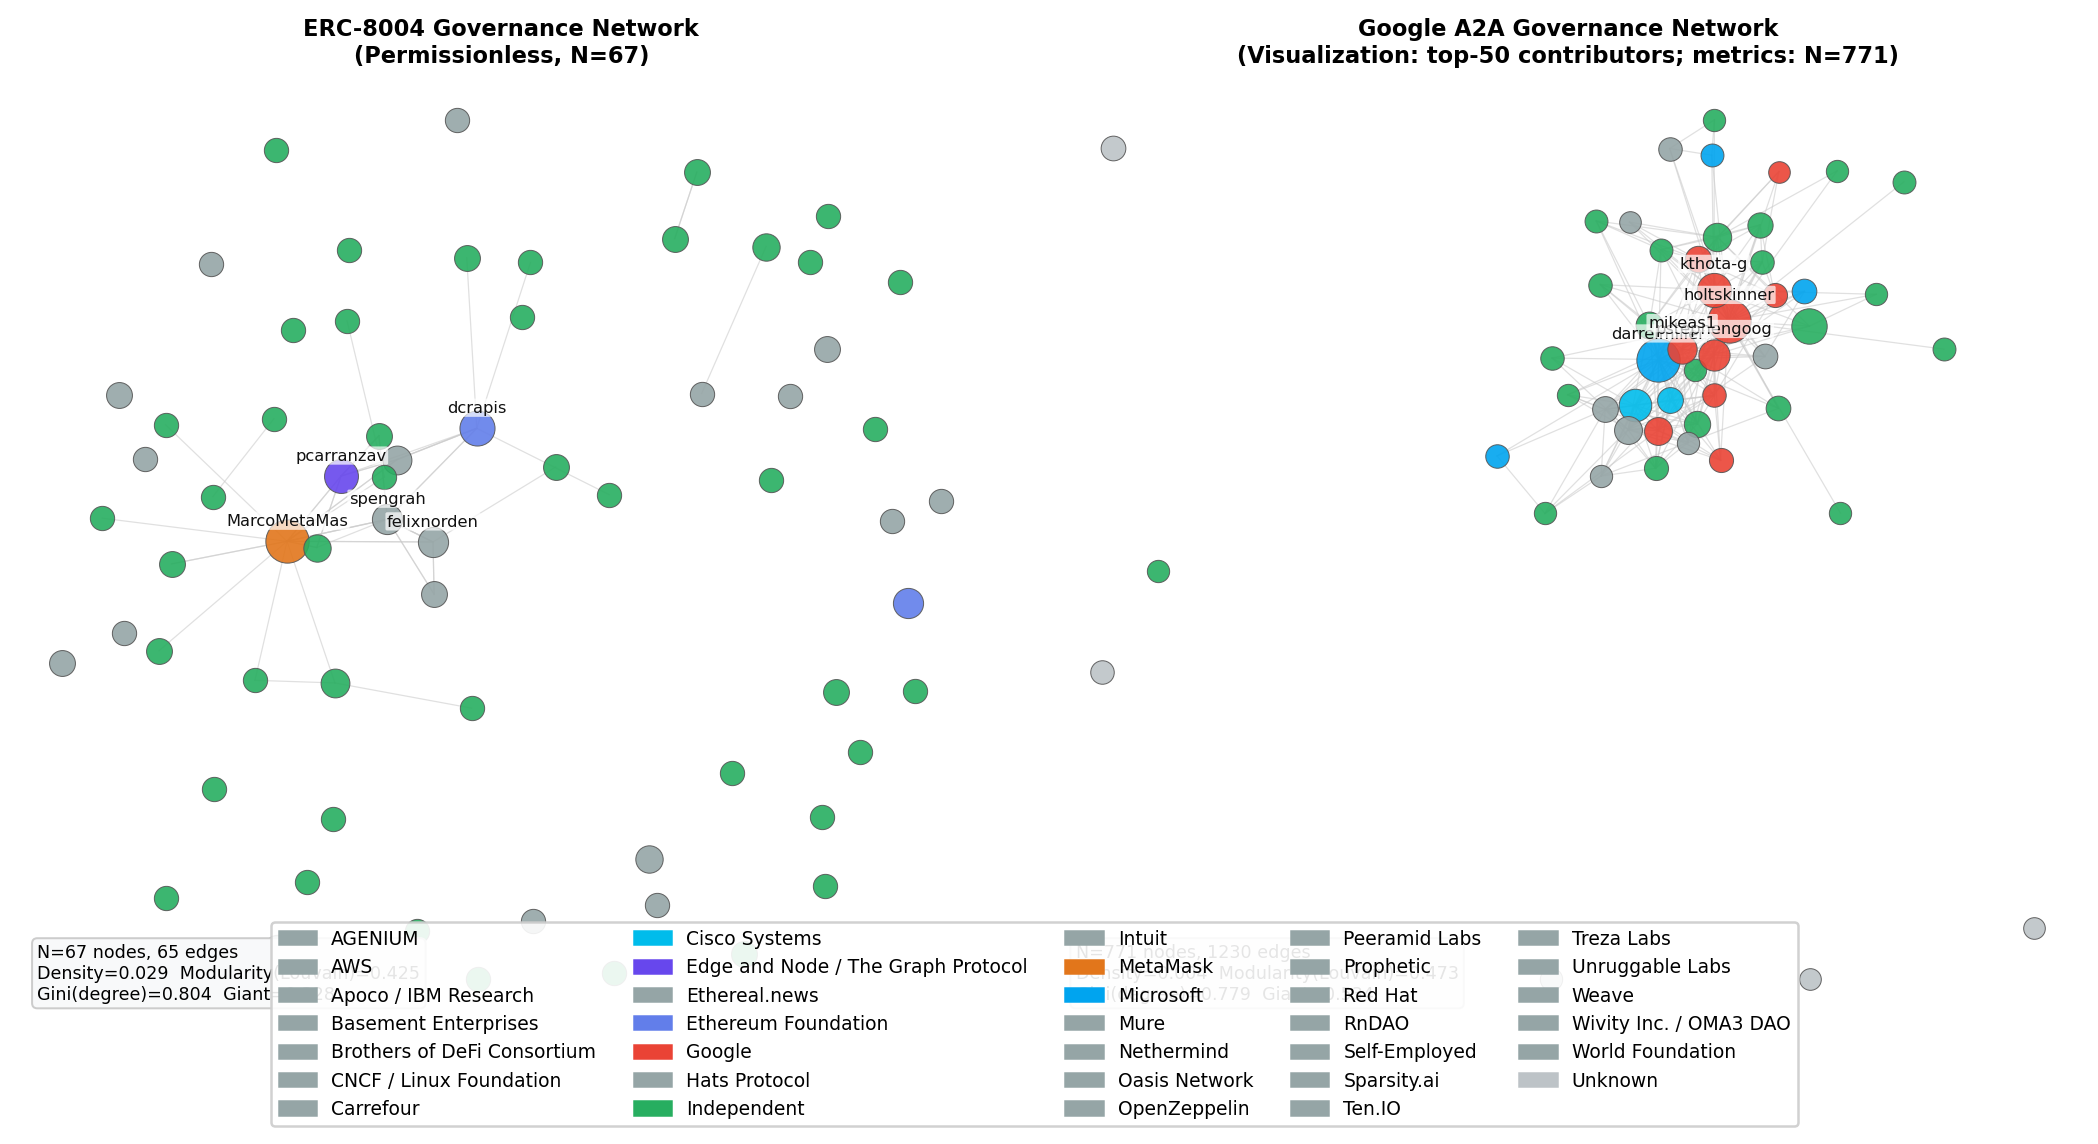
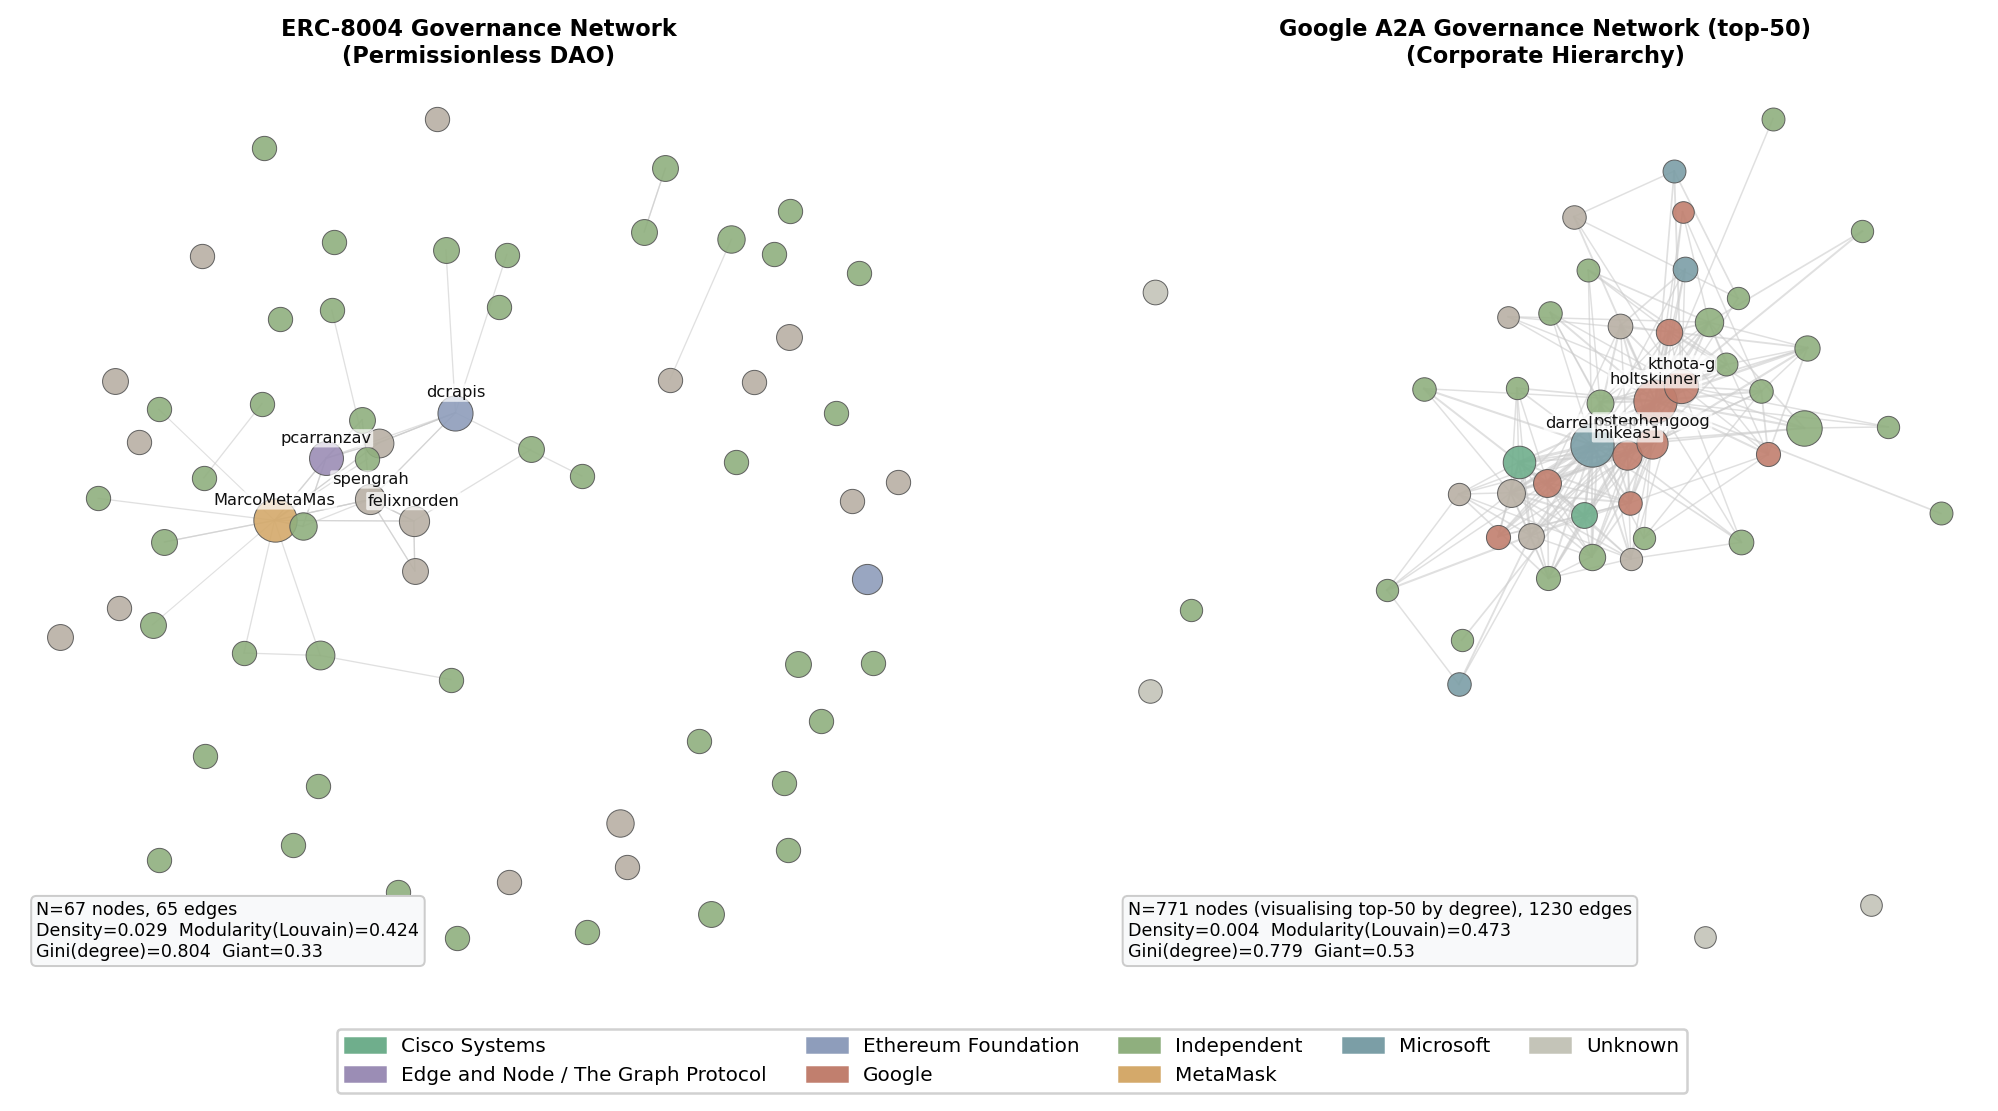
v2-completion

diff --git a/scripts/analyze_network.py b/scripts/analyze_network.py
@@ -35,19 +35,19 @@ ROOT = Path(__file__).parent.parent
 ANALYSIS = ROOT / "analysis"
 OUTPUT = ROOT / "output"
 
-# institution → color
+# institution → color  (Morandi palette — muted, distinct hues)
 INST_COLORS = {
-    "Google":                               "#EA4335",
-    "Microsoft":                            "#00A4EF",
-    "MetaMask":                             "#E2761B",
-    "Ethereum Foundation":                  "#627EEA",
-    "Edge and Node / The Graph Protocol":   "#6747ED",
-    "Cisco Systems":                        "#00BCEB",
-    "Coinbase":                             "#0052FF",
-    "Independent":                          "#27AE60",
-    "Unknown":                              "#BDC3C7",
+    "Google":                               "#C17F6E",  # terracotta
+    "Microsoft":                            "#7B9EA6",  # slate teal
+    "MetaMask":                             "#D4A96A",  # warm amber
+    "Ethereum Foundation":                  "#8E9DBB",  # periwinkle
+    "Edge and Node / The Graph Protocol":   "#9B8DB5",  # dusty violet
+    "Cisco Systems":                        "#6FAE8C",  # sage green
+    "Coinbase":                             "#A3C4BC",  # mint grey
+    "Independent":                          "#8FAF7E",  # muted green
+    "Unknown":                              "#C4C4B8",  # warm grey
 }
-DEFAULT_COLOR = "#95A5A6"
+DEFAULT_COLOR = "#B8B0A4"  # neutral grey — all other institutions
 
 
 # ── graph utilities ───────────────────────────────────────────────────────────
@@ -352,7 +352,7 @@ def spring_layout(nodes, edges, iterations=150, k=None):
     return pos
 
 
-def draw_network(ax, nodes, edges, pos, degree, title, metrics):
+def draw_network(ax, nodes, edges, pos, degree, title, metrics, vis_note=None):
     ax.set_facecolor("white")
     ax.axis("off")
     ax.set_aspect("equal")
@@ -395,7 +395,8 @@ def draw_network(ax, nodes, edges, pos, degree, title, metrics):
     ax.set_title(title, fontsize=9, fontweight="bold", pad=6)
 
     # Metrics inset
-    txt = (f"N={metrics['n_nodes']} nodes, {metrics['n_edges']} edges\n"
+    note_line = f" (visualising top-{vis_note} by degree)" if vis_note else ""
+    txt = (f"N={metrics['n_nodes']} nodes{note_line}, {metrics['n_edges']} edges\n"
            f"Density={metrics['density']:.3f}  "
            f"Modularity(Louvain)={metrics['modularity_louvain']:.3f}\n"
            f"Gini(degree)={metrics['gini_degree']:.3f}  "
@@ -408,11 +409,17 @@ def draw_network(ax, nodes, edges, pos, degree, title, metrics):
 
 def fig_sna_comparison(nodes_erc, edges_erc, nodes_a2a, edges_a2a,
                         metrics_erc, metrics_a2a):
+    # For the figure, use top-50 A2A nodes/edges to avoid over-crowding
+    with open(ANALYSIS / "network_nodes_a2a_top50.csv") as f:
+        nodes_a2a_vis = {r["id"]: r for r in csv.DictReader(f)}
+    with open(ANALYSIS / "network_edges_a2a_top50.csv") as f:
+        edges_a2a_vis = list(csv.DictReader(f))
+
     print("  Computing layouts (this may take ~10s)...")
     _, deg_erc = build_adj(nodes_erc, edges_erc)
-    _, deg_a2a = build_adj(nodes_a2a, edges_a2a)
+    _, deg_a2a = build_adj(nodes_a2a_vis, edges_a2a_vis)
     pos_erc = spring_layout(nodes_erc, edges_erc, iterations=200, k=0.35)
-    pos_a2a = spring_layout(nodes_a2a, edges_a2a, iterations=200, k=0.25)
+    pos_a2a = spring_layout(nodes_a2a_vis, edges_a2a_vis, iterations=300, k=0.45)
 
     fig, (ax_erc, ax_a2a) = plt.subplots(1, 2, figsize=(12, 6))
     fig.patch.set_facecolor("white")
@@ -420,25 +427,27 @@ def fig_sna_comparison(nodes_erc, edges_erc, nodes_a2a, edges_a2a,
     draw_network(ax_erc, nodes_erc, edges_erc, pos_erc, deg_erc,
                  "ERC-8004 Governance Network\n(Permissionless DAO)",
                  metrics_erc)
-    draw_network(ax_a2a, nodes_a2a, edges_a2a, pos_a2a, deg_a2a,
+    draw_network(ax_a2a, nodes_a2a_vis, edges_a2a_vis, pos_a2a, deg_a2a,
                  "Google A2A Governance Network (top-50)\n(Corporate Hierarchy)",
-                 metrics_a2a)
+                 metrics_a2a, vis_note=50)
 
-    # Shared institution legend
+    # Shared institution legend — only show institutions with explicit color assignments
     seen_insts = set(d.get("institution", "Unknown")
-                     for nodes in [nodes_erc, nodes_a2a]
+                     for nodes in [nodes_erc, nodes_a2a_vis]
                      for d in nodes.values())
+    # Filter to only institutions that have an explicit color (i.e., are in INST_COLORS)
+    colored_insts = [i for i in sorted(seen_insts) if i in INST_COLORS and i != "Unknown"]
     legend_handles = [
-        mpatches.Patch(color=INST_COLORS.get(i, DEFAULT_COLOR), label=i)
-        for i in sorted(seen_insts) if i != "Unknown"
+        mpatches.Patch(color=INST_COLORS[i], label=i)
+        for i in colored_insts
     ] + [mpatches.Patch(color=INST_COLORS["Unknown"], label="Unknown")]
 
     fig.legend(handles=legend_handles, loc="lower center",
                ncol=min(len(legend_handles), 5),
-               fontsize=7.5, framealpha=0.9,
-               bbox_to_anchor=(0.5, -0.02))
+               fontsize=8, framealpha=0.9,
+               bbox_to_anchor=(0.5, -0.01))
 
-    plt.tight_layout(rect=[0, 0.06, 1, 1])
+    plt.tight_layout(rect=[0, 0.08, 1, 1])
     out = OUTPUT / "network_sna_comparison.png"
     plt.savefig(out, dpi=180, bbox_inches="tight", facecolor="white")
     plt.close()
